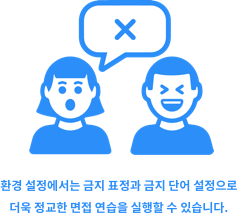
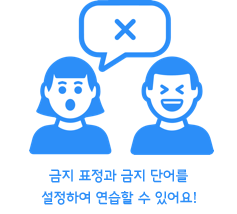
ban word section

Changed region(s): [[0.0, 0.785, 1.0, 1.0]]

diff --git a/project/templates/project/interview/trainingOnAir.html b/project/templates/project/interview/trainingOnAir.html
@@ -274,16 +274,16 @@
     <div id="mySidenav" class="sidenav" style="background-color: rgba(255,255,255,1); width: inherit;">
         <a href="javascript:void(0)" class="closebtn" onclick="nav()">&times;</a>
         
-        <div style="width: 100%; text-align: center; margin-bottom: 30px;">
-        	<img id="explanation" src='{%static "img/explanation.png"%}' width="250" height="200">	
+        <div style="width: 100%; text-align: center; margin-bottom: 10px;">
+        	<img id="explanation" src='{%static "img/explanation.png"%}' width="250" height="220">	
         </div>
         
 		<a style="margin-left: 10px; padding: 0; font-size: 20px;">● 금지 표정 설정</a>
         
         <!-- Emotion Control Section -->
-        <div class="mid" id="emotionControl" style="padding: 5px;">
+        <div class="mid" id="emotionControl" style="padding: 5px; margin-bottom: 20px;">
 
-            <div class="container2" style="width: 430px; padding-top: 20px; padding-bottom: 20px; border: 1px solid #a9b0b7; border-radius: 5px; text-align: center;">
+            <div class="container2" style="width: 420px; padding-top: 20px; padding-bottom: 20px; border: 1px solid #a9b0b7; border-radius: 5px; text-align: center;">
 <!--
                 <a style="font-size: 24px; font-weight: bold;"> &nbsp; &nbsp;감정 ON / OFF</a>
 
@@ -419,29 +419,23 @@
         <!--<hr style="margin-top: -10px; border: 0.5px solid;">-->
 
         <!-- Ban Wrod Section -->
-<!--
-        <div class="mid">
+        
+        <a style="font-size: 20px; margin-left: 10px; padding: 0;">● 금지 단어 설정</a>
+        <div class="mid" style="padding: 5px;">
             <div class="banword">
-                <a style="font-size: 24px; font-weight: bold;">금지 단어</a>
-				<br>
 
-                <div>
-                    <input id="word" type="text" style="width: 160px; margin-right: -5px; border: 1px solid; border-top-left-radius: 5px;border-bottom-left-radius: 5px;"
-                    />
-                    <button style="border: 1px solid; border-bottom-right-radius: 5px; border-top-right-radius: 5px;" onclick="add();"> 추가 </button>
-                </div>
+               <div style="width: 100%; height: 36px; margin-top: 10px; margin-bottom: 20px; display: flex; align-items: center; justify-content: center;">
+					<input id="word" style="width: 200px; line-height: 32px; margin-right: -6px; border: 1px solid #a9b0b7; border-top-left-radius: 5px;border-bottom-left-radius: 5px; float: left;"/>
+                	<button class="btn btn-primary" style="width: 60px; height: 36px; border: 0; border-bottom-right-radius: 5px; border-top-right-radius: 5px; background-color: #007bff; color: #ffffff; float: left;" onclick="add();"> 추가 </button>
+					<button class="btn btn-primary" style="height: 36px; margin-left: 20px; float: left;" onclick="reset()">초기화</button>               	
+               </div>
 
-                <br><br>
-
-                <ul class="list-group mid" id="ban-word" style="width: 280px;">
+                <ul class="list-group mid" id="ban-word" style="width: 280px; padding: 0;">
                 </ul>
 
-                <br><br>
-                <button type="button" class="btn btn-primary" onclick="reset()">초기화</button>
-                <hr style="border: 0.5px solid;">
+ 
             </div>
         </div>
--->
         
     </div>
 
@@ -477,19 +471,8 @@
             <canvas id="snapshot" width="720" height="540" style="display: none;"></canvas>
         </div>
 	</div>
-<!--
-        <div class="mid">
-            <br>    
- 새로운 토글 버튼
-            <div class="btn-group" style="width: 130px; height: 36px;">
-            	<a style="font-size: 18px; font-weight: bold; width: 36px; line-height: 36px; margin-right: 4px; padding: 0;">분노</a>
-  				<button type="button" id="btnOn" class="onoff" style="border-top-left-radius: 8px; border-bottom-left-radius: 8px; background-color: #efe9e9; color: #9c9b9b;" onclick="detectOn('btnOn', 'btnOff', 'test')">ON</button>
-  				<button type="button" id="btnOff" class="onoff" style="border-top-right-radius: 8px; border-bottom-right-radius:  8px; background-color: #2c8ef8; color: #ffffff" onclick="detectOff('btnOn', 'btnOff', 'test')">OFF</button>
-  				<input type="checkbox" id="test" hidden>
-			</div>
-        </div>
-    </div>
--->
+
+    
 
     <div class="right-section">
         <div id="emotionresult" style="margin-top: 10px;">
@@ -529,12 +512,7 @@
 		</div>
 	</div>
 
-            <div class="btn-group" style="width: 130px; height: 36px;">
-            	<a class="emotionTitle">분노</a>
-            	<input type="checkbox" id="test" hidden>
-  				<button id="btnOn" class="btn-toggle" onclick="detectOn('btnOn', 'btnOff', 'test')">ON</button>
-  				<button id="btnOff" class="btn-toggle" onclick="detectOff('btnOn', 'btnOff', 'test')">OFF</button>
-			</div>
+  
    
     <!-- Footer -->
 	<div style="text-align: center;">
@@ -647,7 +625,7 @@
             var word = $("#word").val();
             var li = document.createElement("li");
             li.className = "list-group-item";
-            li.style = "width: 80%";
+            li.style = "width: 80%, height: 40px";
             li.id = "word" + btnCount;
             li.innerHTML = word;
             banWordList.push(word);

diff --git a/project/static/css/trainingOnAir.css b/project/static/css/trainingOnAir.css
@@ -255,8 +255,10 @@ input:checked + .slider {
 }
 
 .banword {
-	width: inherit;
-	height: 500px;
+	width: 420px;
+	height: 300px;
+	padding-top: 10px;
+	border: 1px solid #a9b0b7;
 	text-align: center;
 }
 
